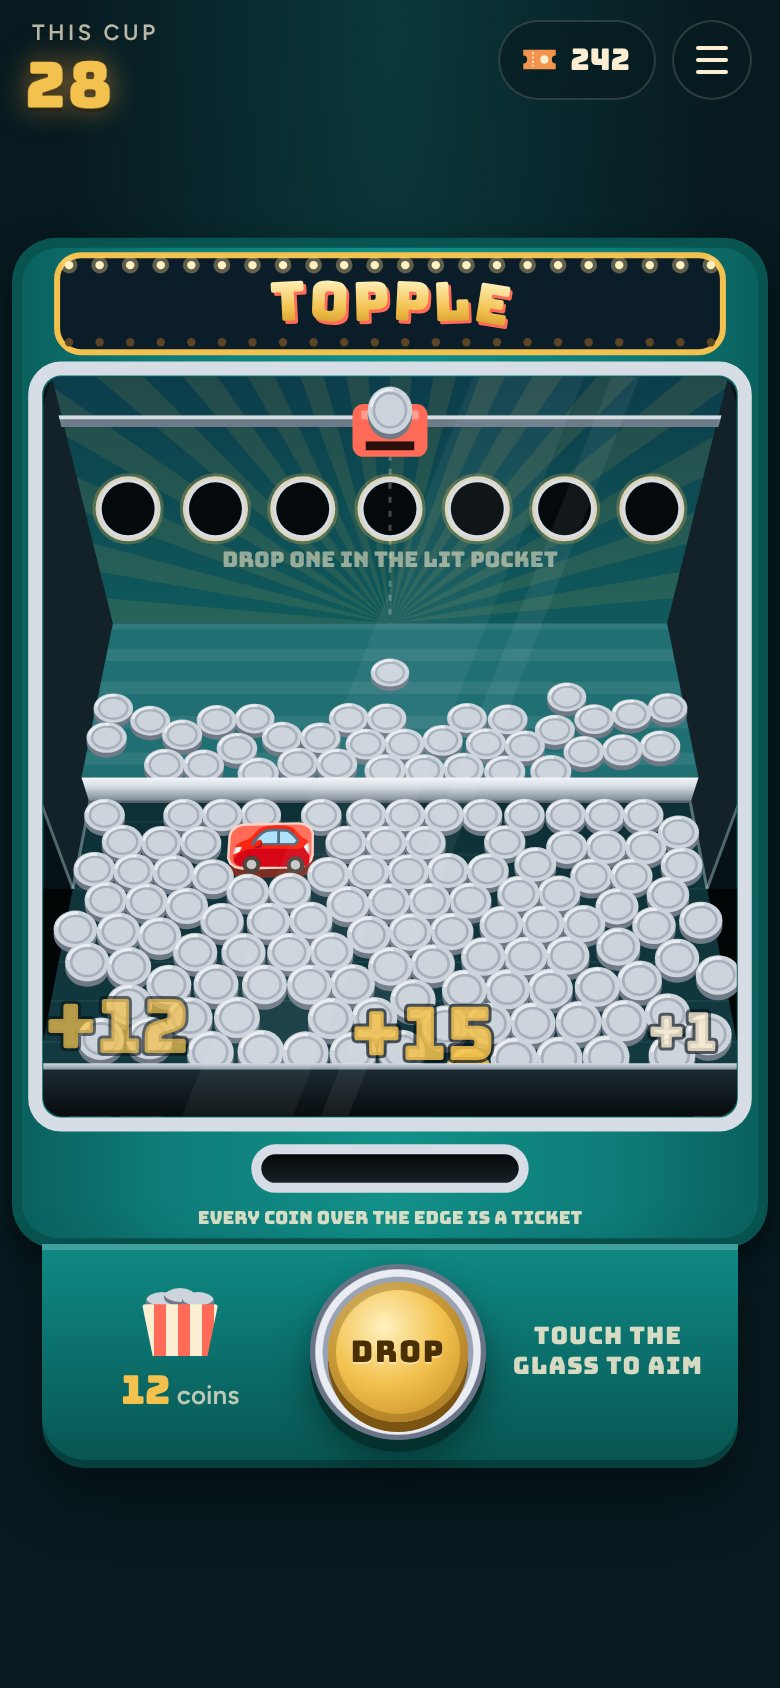
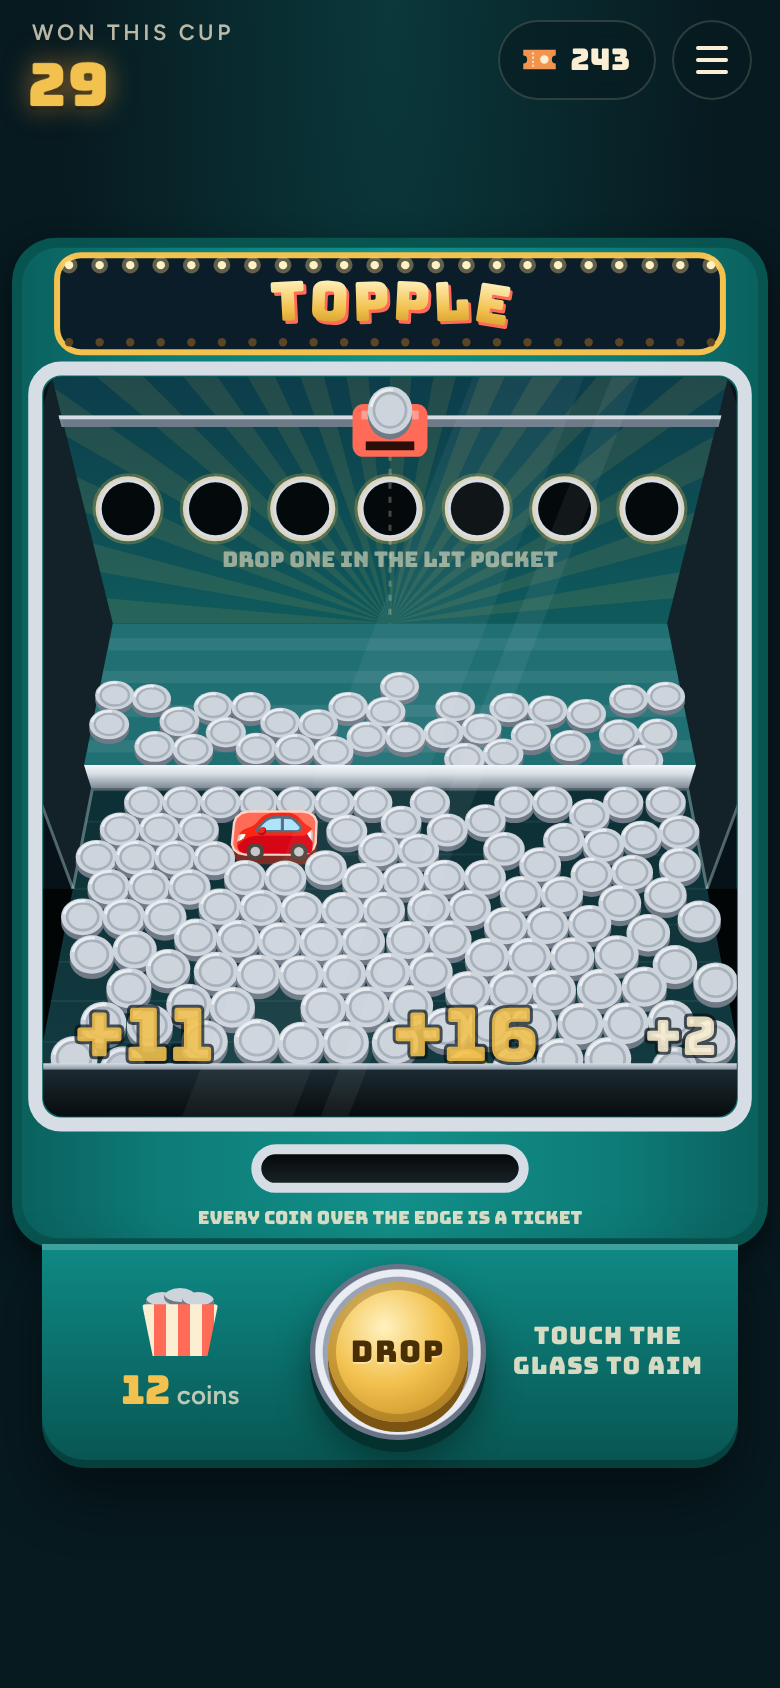
Topple: 'Won this cup', a full cup under the title card, and the pusher
The scoreboard's 'This cup' sat at 0 beside '20 coins' at the start of a
cup and read like an empty cup; it now says 'Won this cup'. Under the
title card with no cup on the go, the deck said '0 coins' beside a greyed
Drop; it now shows the cup full, 20 coins, with Drop waiting for Play.
The end card still shows the finished cup empty. And the title card, the
page's description, the picture's label for screen readers, the line
read out when a new prize goes on and the README called the moving part
'the shelf', the same word as the shelf your prizes go on; they now call
it the pusher (the line read out says the prize is on the pusher, where
the attendant puts it). The README's picture is redrawn with the new
label. Code names stay.

Claude-Session: https://claude.ai/code/session_01RkvUFhzoaPZyofz3pSrJ5i

Changed region(s): [[0.0615, 0.3697, 0.9538, 0.6469], [0.0308, 0.0, 0.2154, 0.0616], [0.2462, 0.0, 0.2769, 0.0308]]

diff --git a/topple/index.html b/topple/index.html
@@ -5,7 +5,7 @@
   <meta name="viewport" content="width=device-width, initial-scale=1, viewport-fit=cover">
   <script src="../shared/carry.js"></script>
   <title>Topple · Free Play</title>
-  <meta name="description" content="A coin pusher on your phone. Drop coins onto the moving shelf, push the pile over the edge, and every coin that goes over is a ticket for the prize counter.">
+  <meta name="description" content="A coin pusher on your phone. Drop coins onto the moving pusher, push the pile over the edge, and every coin that goes over is a ticket for the prize counter.">
   <meta property="og:title" content="Topple, at Free Play">
   <meta property="og:description" content="A coin pusher on your phone: push the pile over the edge for tickets.">
   <meta property="og:image" content="https://free-play.junkdrawer.works/og.png">
@@ -29,10 +29,10 @@
     </symbol>
   </svg>
 
-  <canvas id="stage" aria-label="A coin pusher seen through its glass: a moving shelf at the back, a deck heaped with coins, and the front edge they go over"></canvas>
+  <canvas id="stage" aria-label="A coin pusher seen through its glass: a moving pusher at the back, a deck heaped with coins, and the front edge they go over"></canvas>
 
   <header class="hud">
-    <div class="score"><small>This cup</small><b id="won">0</b></div>
+    <div class="score"><small>Won this cup</small><b id="won">0</b></div>
     <div class="right">
       <button type="button" class="tix" id="tixBtn" aria-label="Prize counter"><svg><use href="#ticket"/></svg><span id="tix"></span></button>
       <button type="button" class="menu" id="menuBtn" aria-label="Menu"><span></span><span></span><span></span></button>
@@ -50,7 +50,7 @@
     <a class="floor to-floor" href="../">← Free Play</a>
     <div class="marquee"><h1>Topple</h1></div>
     <p class="lede">A coin pusher. Every coin you push over the edge is a ticket.</p>
-    <p class="how">Touch the glass to aim the chute, and let go to drop a coin onto the moving shelf. The shelf scrapes coins off onto the deck, and the deck's coins get pushed towards the edge. A cup holds 20 coins. When the lights along the back stop on a pocket, drop one through it for a shower of coins. Gold coins are worth ten, and there's always a prize on there somewhere.</p>
+    <p class="how">Touch the glass to aim the chute, and let go to drop a coin onto the moving pusher. As it slides back, coins get scraped off onto the deck, and as it slides forward, it pushes the deck's coins towards the edge. A cup holds 20 coins. When the lights along the back stop on a pocket, drop one through it for a shower of coins. Gold coins are worth ten, and there's always a prize on there somewhere.</p>
     <p class="how keys">On a keyboard: ← and → move the chute, and Space drops a coin.</p>
     <div class="row">
       <button type="button" class="big" id="play">Play</button>

diff --git a/topple/js/app.js b/topple/js/app.js
@@ -187,7 +187,7 @@ function restockSoon() {
   restockTimer = setTimeout(() => {
     const had = machine.pieces.some(p => p.kind === 'prize');
     machine.restock(nextPrize());
-    if (!had && machine.pieces.some(p => p.kind === 'prize')) { sound.restock(); say('Another prize is on the shelf.'); }
+    if (!had && machine.pieces.some(p => p.kind === 'prize')) { sound.restock(); say('Another prize is on the pusher.'); }
   }, 1500);
 }
 
@@ -263,11 +263,13 @@ function hud(bump = false) {
   const have = wallet.read().tickets;
   $('tix').textContent = fmt(have);
   pocketButton($('tixBtn'), have);
-  const left = cup ? cup.left : 0;
+  // Under the title card with no cup on the go, the next cup waits full (Drop wakes up with Play); after one, the end
+  // card shows it empty.
+  const left = cup ? cup.left : $('title').hidden ? 0 : CUP;
   $('left').textContent = left;
   $('coinsWord').textContent = left === 1 ? 'coin' : 'coins';
   document.querySelector('.cup').classList.toggle('empty', !left);
-  $('drop').disabled = !left;
+  $('drop').disabled = !(cup && cup.left);
   if (bump) { const b = $('won'); b.classList.remove('bump'); void b.offsetWidth; b.classList.add('bump'); }
   $('titleBest').textContent = saved.cups ? `Best cup: ${tickets(saved.best)}.` : '';
   $('play').textContent = cup && cup.left > 0 ? 'Carry on' : 'Play';

diff --git a/index.html b/index.html
@@ -61,7 +61,7 @@
     </a>
     <a class="cab topple" href="topple/" aria-labelledby="toppleName toppleStat" aria-describedby="toppleWhat">
       <span class="marquee"><span id="toppleName">Topple</span></span>
-      <span class="screen"><img src="floor/topple.jpg" width="600" height="450" alt="Topple's deck: a heap of silver coins, two gold ones and a prize on a red card, pushed towards the front edge by a chrome shelf"></span>
+      <span class="screen"><img src="floor/topple.jpg" width="600" height="450" alt="Topple's deck: a heap of silver coins, two gold ones and a prize on a red card, pushed towards the front edge by a chrome pusher"></span>
       <span class="panel">
         <span class="what" id="toppleWhat">A coin pusher. Drop coins on the moving shelf and push the pile over the edge: every coin that goes over is a ticket.</span>
         <span class="stat" id="toppleStat"></span>

diff --git a/README.md b/README.md
@@ -14,7 +14,7 @@
 <p align="center">
   <img src="docs/phone-clutch.png" alt="Clutch, a candy-pink claw machine: CLUTCH in neon on a bulb-lit sign, the claw coming up out of a heap of plush frogs, ghosts, aliens, penguins and a chick with a penguin in its grip, the prize chute behind a clear wall on the left, and a big pink HOLD button under the cabinet" width="250">
   &nbsp;
-  <img src="docs/phone-topple.png" alt="Topple, a teal coin pusher: TOPPLE in gold on its sign, a row of bonus pockets on the back wall, a chrome shelf scraping silver coins onto a packed deck with a toy car on a red card, +12 rising off the front edge, and a cup of 12 coins beside a gold DROP button" width="250">
+  <img src="docs/phone-topple.png" alt="Topple, a teal coin pusher: TOPPLE in gold on its sign, a row of bonus pockets on the back wall, a chrome pusher scraping silver coins onto a packed deck with a toy car on a red card, +11 and +16 rising off the front edge, 29 won this cup, and a cup of 12 coins beside a gold DROP button" width="250">
   &nbsp;
   <img src="docs/phone-highrise.png" alt="Highrise, a stacker: HIGHRISE in blue neon over a tower against a night skyline, its windows lit eight floors up in warm amber, one window tumbling off the side and the next row sliding along floor 9, with a trophy marked at floor 15 and +25 at floor 11, over a big blue STOP button" width="250">
   &nbsp;
@@ -97,12 +97,12 @@ A claw machine, seen through the glass, heaped with plush: bears, chicks, frogs,
 
 ## Topple
 
-A coin pusher, looking down through the glass: a chrome shelf sliding in and out under the back wall, a deck heaped with silver coins, and the front edge they go over.
+A coin pusher, looking down through the glass: a chrome pusher sliding in and out under the back wall, a deck heaped with silver coins, and the front edge they go over.
 
-- **Touch the glass to aim** the chute along the top, and let go to drop a coin. (Or aim with the finger still and tap **Drop** for more in the same place.) A cup holds 20 coins, and the chute takes a moment to reload between them. The cup's done once its last coin is down and the pile goes quiet, and anything the shelf still pushes over while its card is up counts for it too.
-- **How it pushes.** Coins land on the shelf and ride in and out with it. As it slides back, the back wall holds them, and the ones at the front get scraped off its lip onto the deck. As it slides forward, its face shoves the deck's coins along, and the ones at the front go over. Every coin over the front edge is a ticket, paid as it falls. The side walls stop short of the front, so coins pushed off the sides there go to the house.
-- **The bonus.** Every so often the lights along the back wall chase along the row of pockets and stop on one. Drop a coin through the lit pocket while it's lit for a shower of eight coins across the shelf, sometimes with a gold one.
-- **Gold coins** are worth ten tickets. **A prize** always sits on the deck somewhere, on a little card: push it over the edge and it goes on your shelf (a plastic watch, a toy car, a lucky keyring, a wind-up robot, or now and then a giant plastic gem). When one's gone, the attendant puts another on the shelf.
+- **Touch the glass to aim** the chute along the top, and let go to drop a coin. (Or aim with the finger still and tap **Drop** for more in the same place.) A cup holds 20 coins, and the chute takes a moment to reload between them. The cup's done once its last coin is down and the pile goes quiet, and anything the pusher still pushes over while its card is up counts for it too.
+- **How it pushes.** Coins land on the pusher and ride in and out with it. As it slides back, the back wall holds them, and the ones at the front get scraped off its lip onto the deck. As it slides forward, its face shoves the deck's coins along, and the ones at the front go over. Every coin over the front edge is a ticket, paid as it falls. The side walls stop short of the front, so coins pushed off the sides there go to the house.
+- **The bonus.** Every so often the lights along the back wall chase along the row of pockets and stop on one. Drop a coin through the lit pocket while it's lit for a shower of eight coins across the pusher, sometimes with a gold one.
+- **Gold coins** are worth ten tickets. **A prize** always sits on the deck somewhere, on a little card: push it over the edge and it goes on your shelf (a plastic watch, a toy car, a lucky keyring, a wind-up robot, or now and then a giant plastic gem). When one's gone, the attendant puts another on the pusher.
 - **The deck stays as you left it.** The coins are kept between visits, so a pile left hanging over the edge is still hanging there next time, and a cup you didn't finish is waiting.
 - **The keyboard works too.** ← and → move the chute; Space drops a coin.
 
@@ -187,7 +187,7 @@ To put it online with GitHub Pages: **Settings → Pages → Build and deploymen
 - `bonkers/`: Bonkers. `js/burrow.js` is the tunnels, the moles and the mallet, with a clock that only moves when it's told to, `js/draw.js` draws the cabinet and the ground in cross-section, `js/app.js` runs the round and the tickets, and `js/sound.js` makes the noises.
 - `popgun/`: Popgun. `js/gallery.js` is the rows, the corks and the score, with a clock that only moves when it's told to, `js/draw.js` draws the booth and the tin targets, `js/app.js` runs the aiming, the round and the tickets, and `js/sound.js` makes the noises.
 - `highrise/`: Highrise. `js/tower.js` is the rules, with no clock of its own, `js/draw.js` draws the tower and the city, `js/app.js` keeps time and runs the stop button and the prizes, and `js/sound.js` makes the noises.
-- `topple/`: Topple. `js/machine.js` is the shelf, the deck and the coins seen from above, in millimetres, run by matter-js, `js/draw.js` puts it in perspective with a simple camera, `js/app.js` runs the chute, the cup and what comes over the edge, and `js/sound.js` makes the noises.
+- `topple/`: Topple. `js/machine.js` is the pusher (the shelf, in the code), the deck and the coins seen from above, in millimetres, run by matter-js, `js/draw.js` puts it in perspective with a simple camera, `js/app.js` runs the chute, the cup and what comes over the edge, and `js/sound.js` makes the noises.
 - `floor/`: the pictures on the cabinets' screens.
 - `test/`: unit tests for the arcade and each machine (`*.test.mjs`), and browser tests for the floor (`e2e.mjs`), the prize counter on every page (`counter.e2e.mjs`), the move (`carry.e2e.mjs`) and each machine.
 - `fonts/`: Bungee, Bungee Outline and Figtree (SIL Open Font License), served from here so nothing loads from elsewhere.
